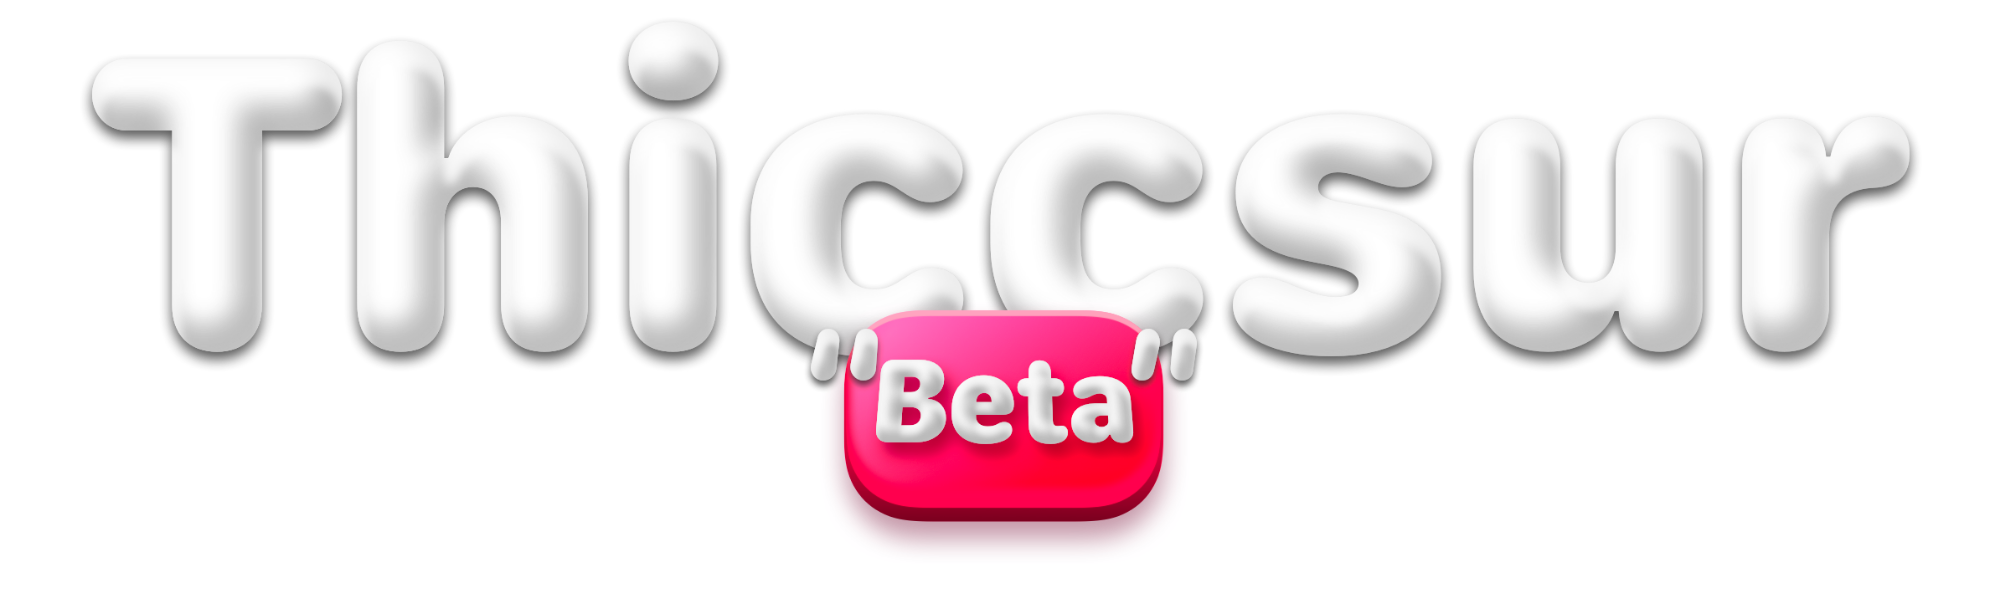
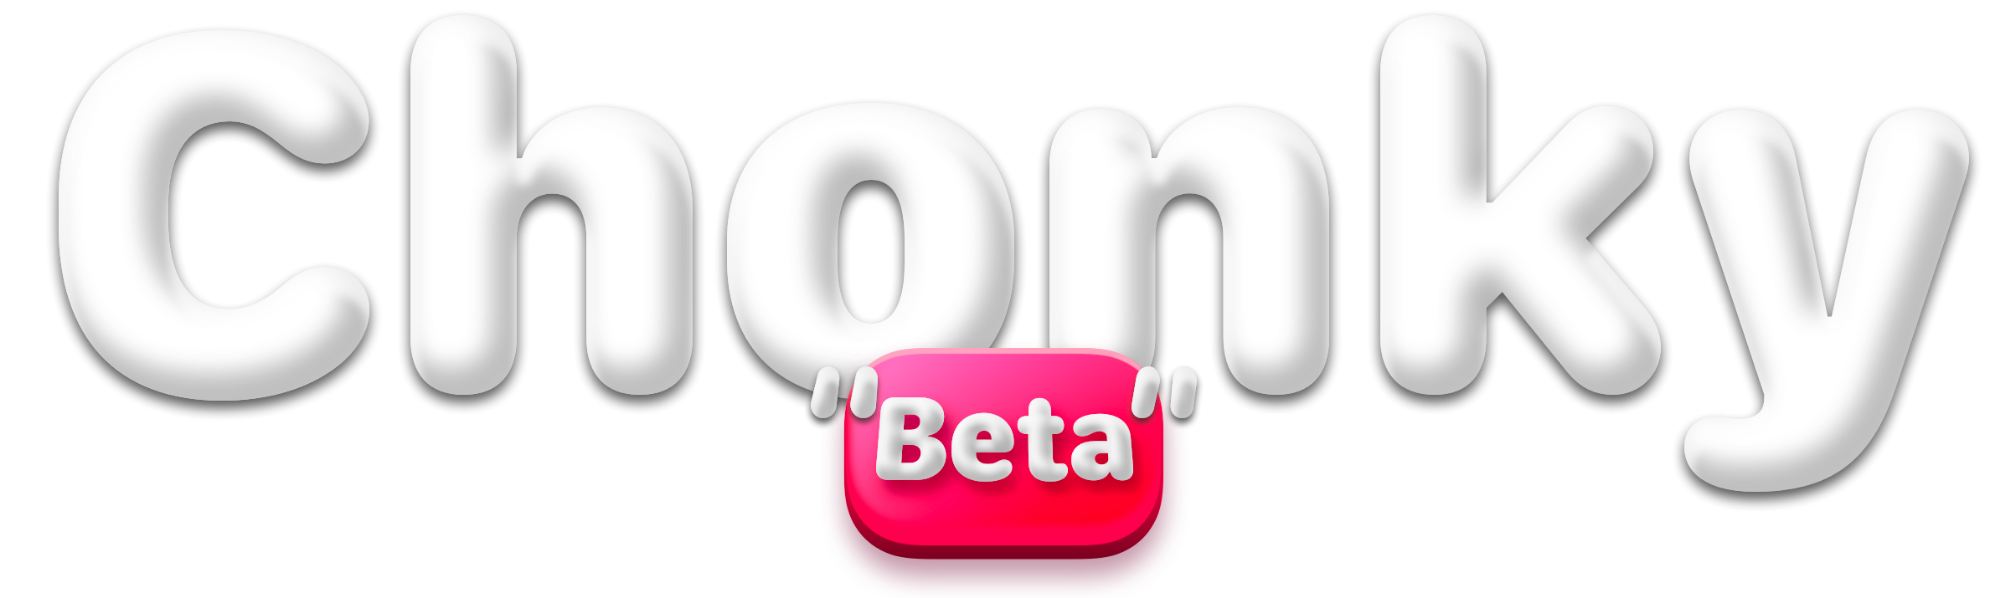
chonky

Changed region(s): [[0.031, 0.0602, 0.992, 0.9933], [0.31, 0.0903, 0.372, 0.2107], [0.0, 0.301, 0.031, 0.4816]]

diff --git a/index.html b/index.html
@@ -24,7 +24,7 @@
         </div><img class="img-fluid" src="assets/img/thicc.png" style="padding-top: 0px;margin-bottom: 54px;"></div>
         <div class="text-center" style="background-image: linear-gradient(180deg, #ACB4B7 0%, #535C62 100%);"><img class="img-fluid" src="assets/img/t_arcade.png" style="padding-top: 40px;padding-right: 10%;padding-left: 10%;">
             <div style="margin-top: 4px;">
-                <p class="text-center" style="font-style: italic;font-size: 13px;color: rgb(229,242,255);margin-bottom: 0px;font-family: SFCompactRounded;"><em>Supplemental icon theme to use with Thiccsur, or use alone.</em></p>
+                <p class="text-center" style="font-style: italic;font-size: 13px;color: rgb(229,242,255);margin-bottom: 0px;font-family: SFCompactRounded;"><em>Supplemental icon theme to use with Chonky, or use alone.</em></p>
             </div><img class="img-fluid" src="assets/img/repoArcade.png" style="padding-top: 40px;padding-right: 12px;padding-left: 12px;"></div>
         <div class="d-flex justify-content-between" style="overflow-x: scroll;overflow-y: hidden;white-space: nowrap;padding: 28px;padding-top: 10px;padding-right: 0px;margin-right: 0px;height: 101px;margin-left: -26px;margin-top: 0px;background-color: #535c62;">
             <div class="text-center" style="margin-right: 8px;padding-left: 12px;padding-right: 12px;margin-left: 0px;"><img src="assets/img/com.microsoft.gearspop-large.png" width="100%" style="width: 67px;"></div>
